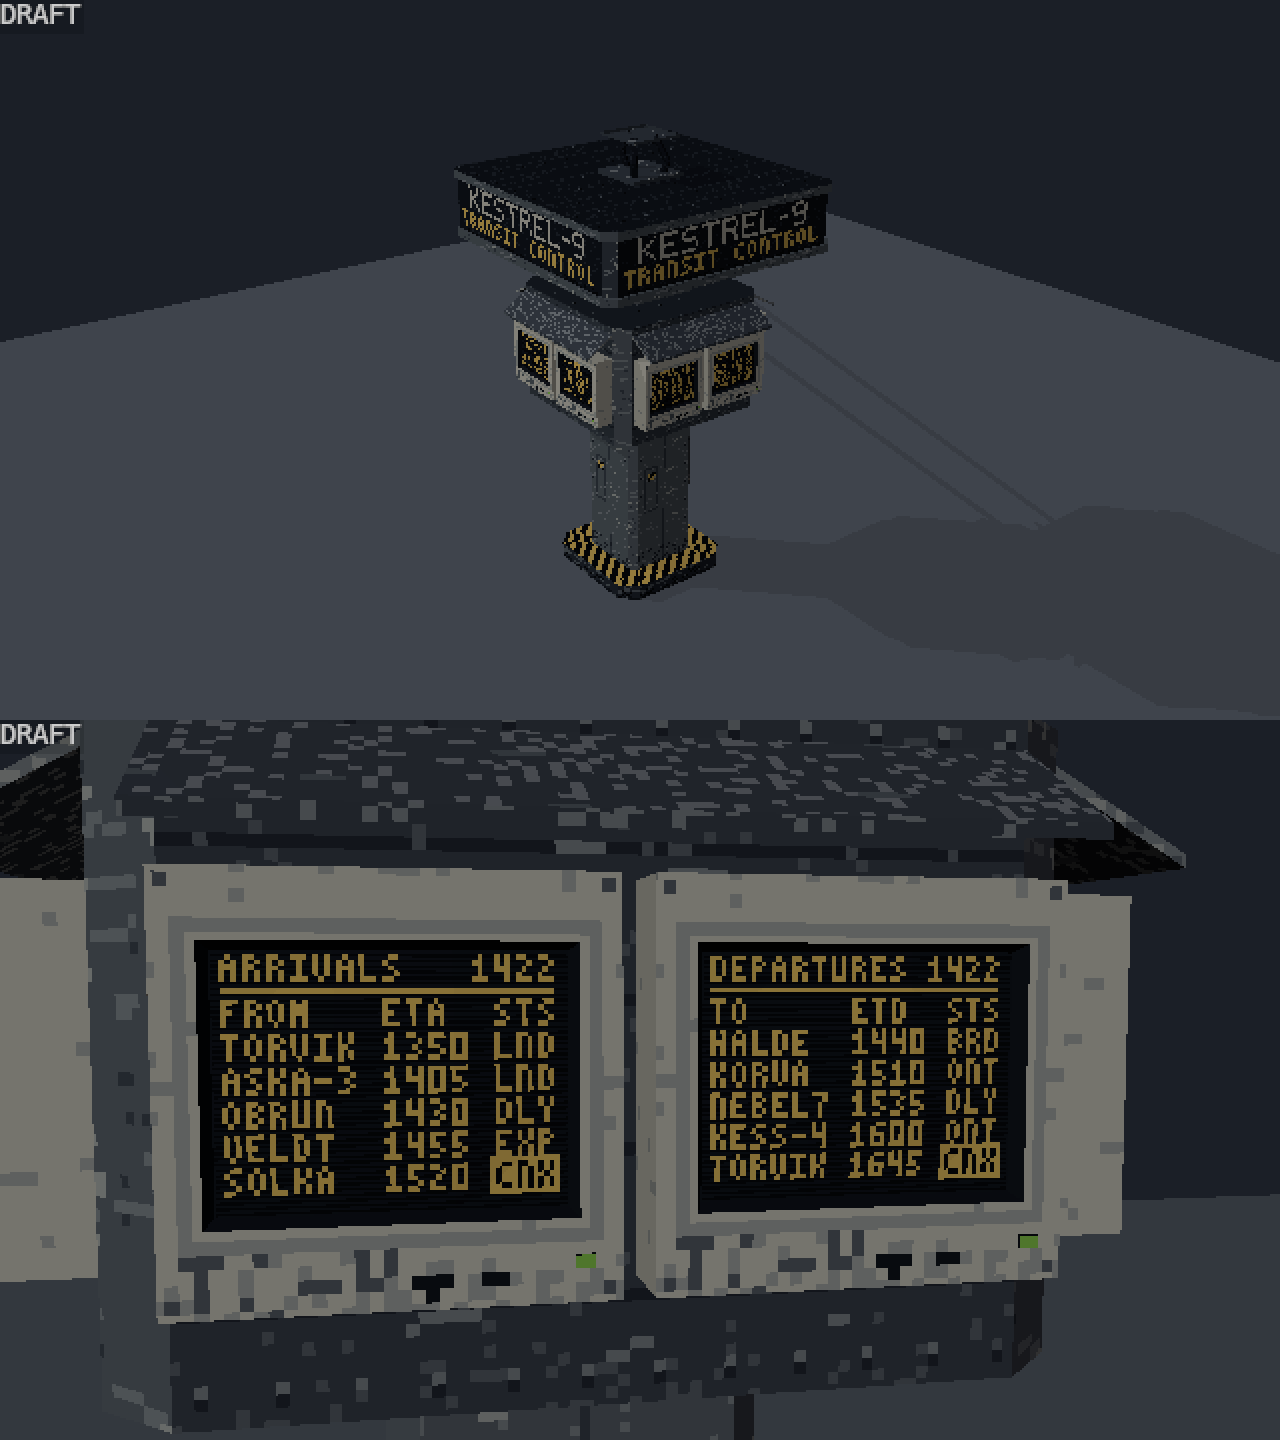
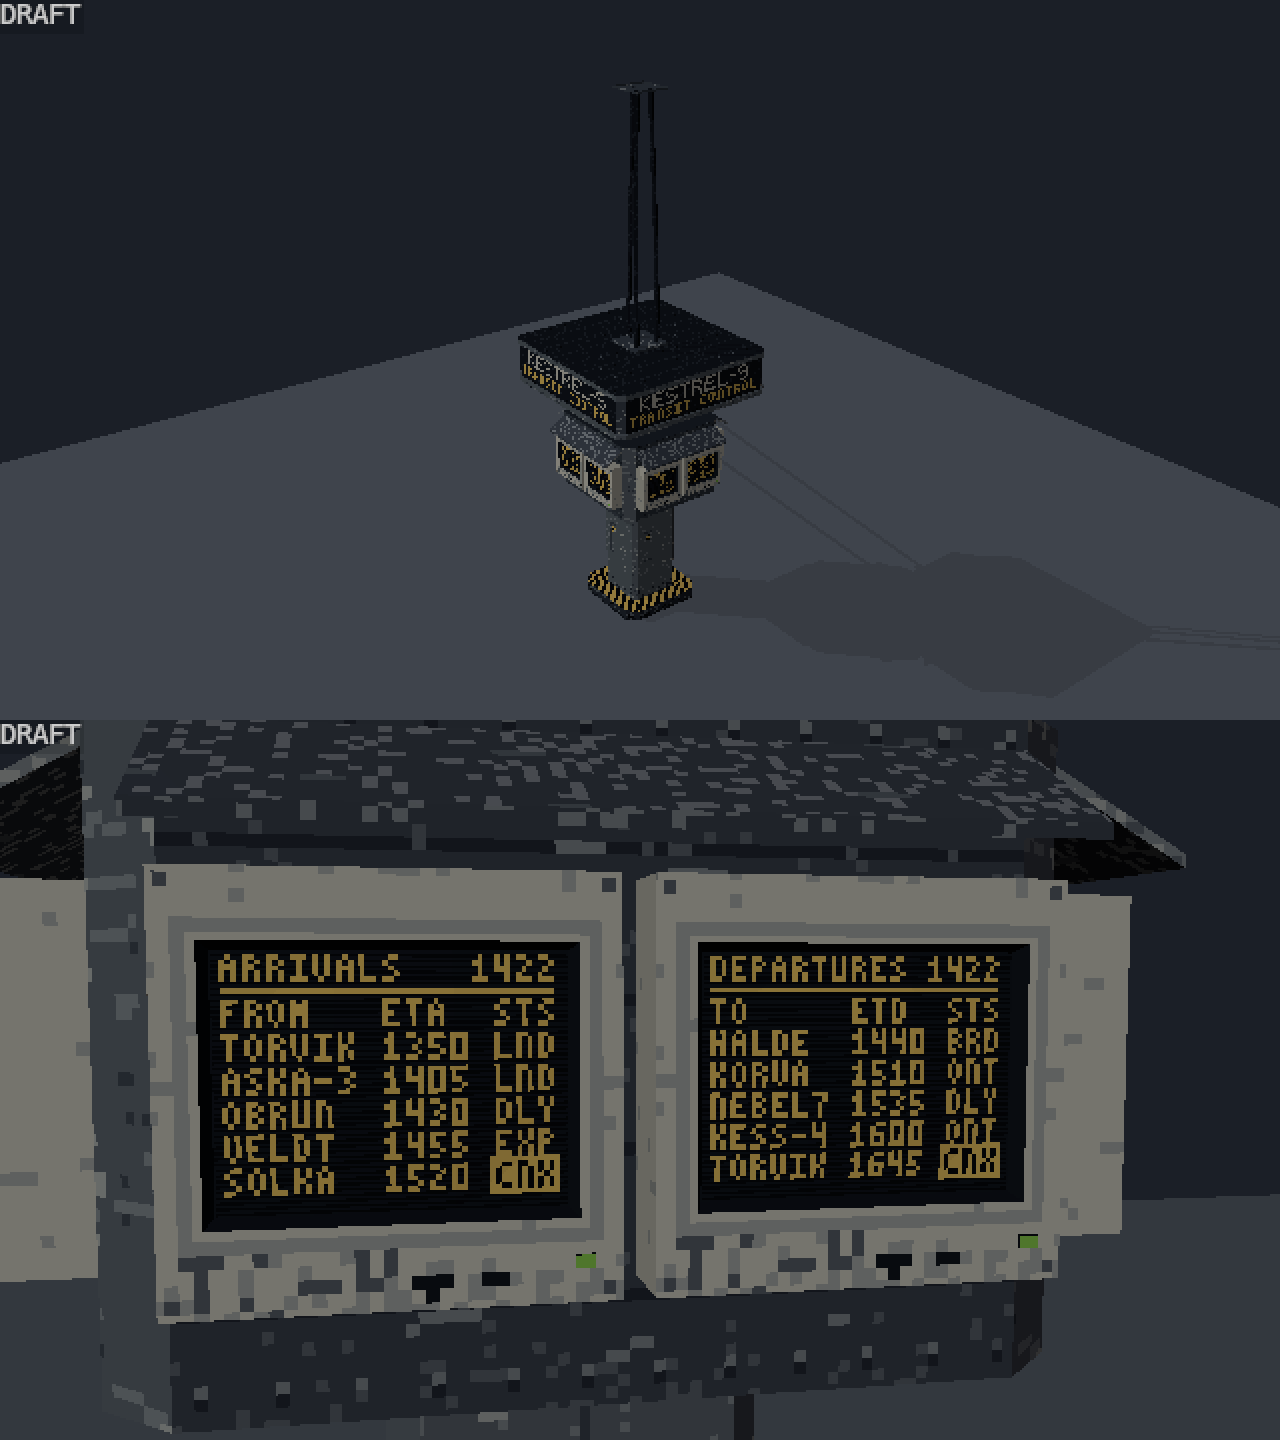
assets(P04): SM_Hall_DepartureBoard.fbx - cables to the 6 m ceiling (M008/1) - 872 tris, 2 materials; M013

Changed region(s): [[0.0, 0.125, 1.0, 0.4375], [0.4688, 0.0625, 0.5312, 0.125]]

diff --git a/docs/PIPELINE.md b/docs/PIPELINE.md
@@ -259,3 +259,21 @@ in `docs/ASSET-REQUESTS.md`.
   - **Ausrichtung und Import:** wie M009 (Blick nach Unity +Z, Pivot unten mittig; Rig "Humanoid", Avatar "Create From
     This Model"; Material `M_NPC_<Spezies>` mit der Albedo, Point, keine Mipmaps).
 - antwort: max/Claude, 03.11.: Integriert wie M012, alle 5 Avatare gültig, Ext_-Kurven (Kehlsack, Fühler, Mandibeln, Kiefer, Schwanz) in allen Clips vorhanden.
+
+### M013 — Nachbesserungen aus M008: Abflugtafel, Pflanzkübel, Kiosk-Tresen
+- datum: 2026-11-03
+- von: pipeline
+- an: team
+- betrifft: SM_Hall_DepartureBoard, SM_Hall_Planter, SM_Kiosk_Counter
+- status: offen
+- meldung: Die drei rework-Punkte aus M008 sind umgesetzt, die Einträge stehen auf `Vorschau`:
+  1. `SM_Hall_DepartureBoard` (Branch `assets/P04-hall`): Tafel unverändert (Höhe 3,2 m, Größe wie geliefert); die drei
+     Kabel laufen jetzt bis in einen Deckenflansch auf 6,0 m. Modell 2,0 x 2,0 x 6,0 m, 872 Tris.
+  2. `SM_Hall_Planter` (Branch `assets/P04-extras`, dort wurde er geliefert): neue `T_Hall_Planter_Emission.png`
+     (64 x 64): UV-Röhre und Fensterstreifen der Lampe leuchten Neonviolett, sonst alles schwarz. Modell unverändert
+     (498 Tris); Material: Emission-Map + Emission-Farbe weiß, die Stärke nach Geschmack.
+  3. `SM_Kiosk_Counter` (Branch `assets/P11-P13-kiosk-drone`): Tresen bleibt 1,0 m. Darüber zwei Führungsschienen an
+     den Kanten der 1,6 m breiten Durchreiche, das Rollgitter halb heruntergelassen (2,0 -> 1,5 m) und oben der
+     Gitterkasten (2,0-2,4 m) mit dem violetten Leuchtschild 'GADGETS & SUPPLIES' auf 2,03-2,17 m - genau der Streifen,
+     den man aus der Halle unter dem Sturz (2,2 m) sieht. Modell 0,8 x 2,8 x 2,4 m, 588 Tris. Das alte Schild in der
+     Vitrine und das Gitter vor der Frontscheibe sind weg. Collider bitte auf die neue Höhe anpassen.

diff --git a/docs/ASSET-REQUESTS.md b/docs/ASSET-REQUESTS.md
@@ -688,7 +688,7 @@ feedback: []
 path: Assets/_Project/Art/Models/Hall/SM_Hall_DepartureBoard.fbx
 package: P04
 scene: Halle
-status: rework
+status: Vorschau
 priority: P1
 needed_by: 2026-11-16
 size_m: [2.0, 2.0, 6.0]
